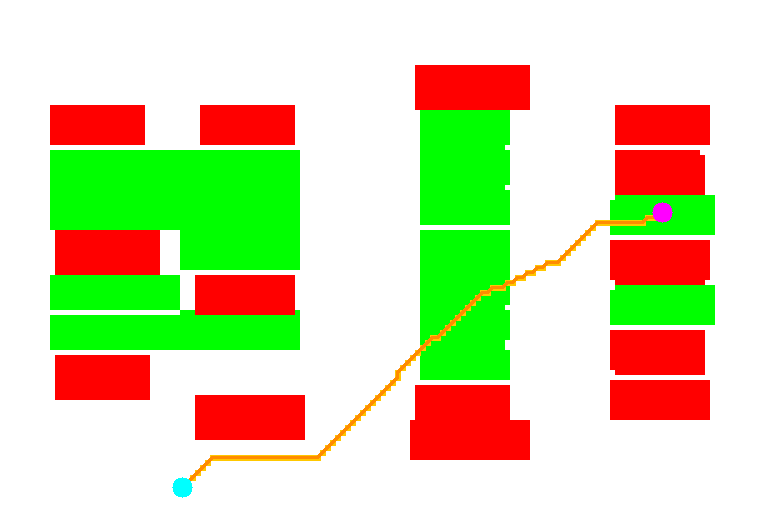
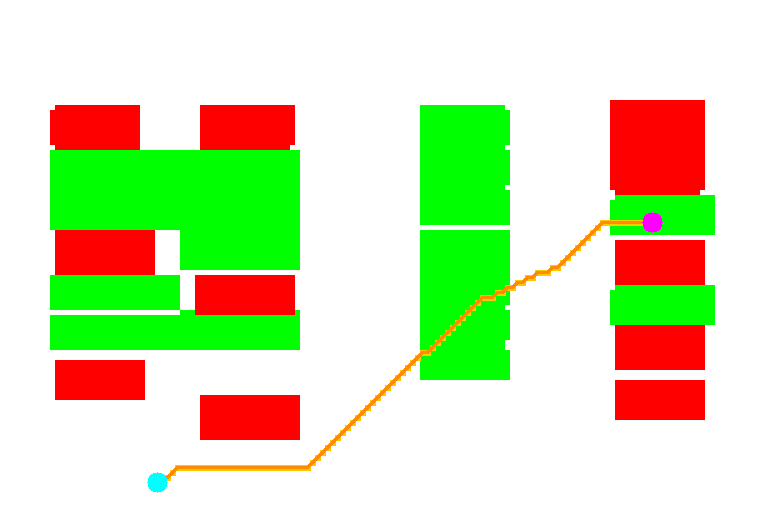
fix config changes

diff --git a/config.py b/config.py
@@ -1,6 +1,5 @@
 """Configuration constants for the Parking Assistant application."""
 
-import numpy as np
 from dataclasses import dataclass
 
 @dataclass
@@ -17,21 +16,21 @@ class UIConfig:
     # Grid display mode
     # True = Fit grid to canvas (resized, no scrollbars)
     # False = Show actual grid size (with scrollbars if needed)
-    FIT_GRID_TO_CANVAS = True
+    FIT_GRID_TO_CANVAS = False
 
 @dataclass
 class DetectionConfig:
     """Object detection configuration."""
-    YOLO_MODEL_PATH = 'yolov8s_fold_0.pt'
+    YOLO_MODEL_PATH = 'yolo11l.pt'
     YOLO_FALLBACK_MODEL = 'yolov8n.pt'
     DEFAULT_CONFIDENCE = 0.30
     
     # Parking spot detection parameters
     CONTOUR_MIN_AREA = 2500
     CONTOUR_MAX_AREA = 25000
-    MIN_ASPECT_RATIO = 0.1
-    MAX_ASPECT_RATIO = 0.75
-    MIN_RECTANGULARITY = 0.75
+    MIN_ASPECT_RATIO = 0.2
+    MAX_ASPECT_RATIO = 0.7
+    MIN_RECTANGULARITY = 0.80
     DUPLICATE_DISTANCE_THRESHOLD = 50
     
     # COCO classes considered as obstacles
@@ -60,7 +59,7 @@ class GridConfig:
 class PathPlanningConfig:
     """Path planning configuration."""
     SMOOTHING_FACTOR = 0.01
-    NUM_SMOOTHING_POINTS = 100
+    NUM_SMOOTHING_POINTS = 150
     
     # A* movement directions (8-directional)
     MOVEMENT_DIRECTIONS = [
